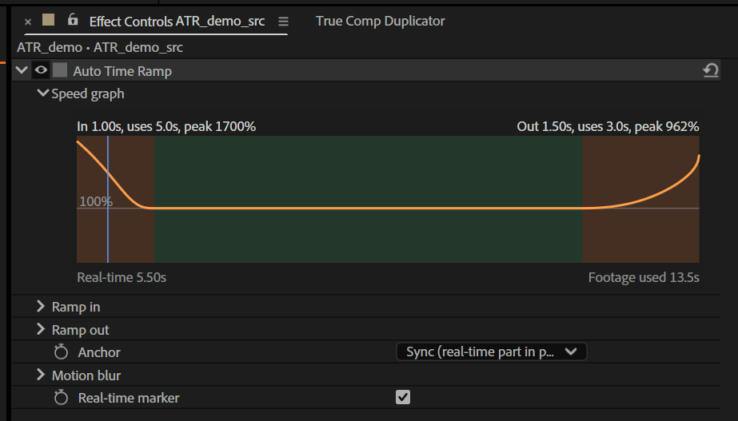
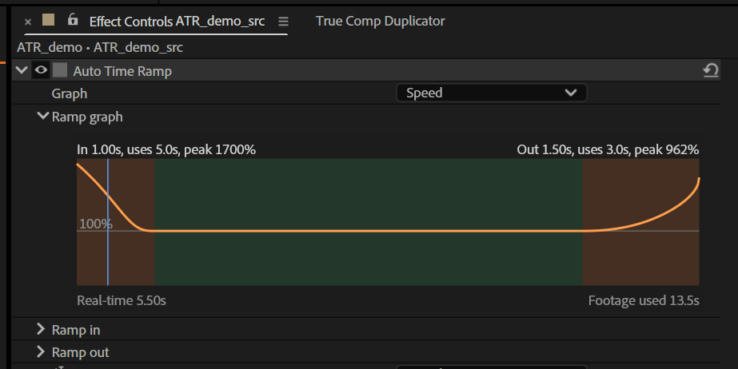
Add Speed/Time graph switch and text-free real-time marker (v0.5)
- New "Graph" popup at the top of the effect: Speed (log speed curve) or
  Time (source time over layer time, as a Time Remap graph would show,
  with a dashed 1:1 reference and the source range labelled); graph param
  renamed "Ramp graph"
- Real-time marker has no visible text; it is identified by a hidden
  cue-point parameter AutoTimeRamp=real-time. v0.3/v0.4 markers carrying
  the old comment are recognised and rewritten without it
- Marker test checks for no text and migration of an old text marker

diff --git a/tests/ae/marker_test.jsx b/tests/ae/marker_test.jsx
@@ -14,7 +14,7 @@
     var stage = stageFile.readln();
     stageFile.close();
 
-    var COMMENT = "Real-time (Auto Time Ramp)";
+    var LEGACY_COMMENT = "Real-time (Auto Time Ramp)"; // v0.3/v0.4 markers; must be migrated
     var FPS = 25;
     var lines = [];
     function check(name, ok, details) { lines.push((ok ? "PASS," : "FAIL,") + name + "," + details); }
@@ -32,14 +32,20 @@
         return L.property("ADBE Effect Parade").property("DFLW AutoTimeRamp")
             .property("DFLW AutoTimeRamp-" + id.substr(id.length - 4));
     }
-    // Our marker: [start (layer time), duration] or null.
+    // Our marker (hidden param AutoTimeRamp=real-time): [start (layer time), duration, comment] or null.
     function ourMarker(L) {
         var m = L.property("ADBE Marker");
         for (var k = 1; k <= m.numKeys; k++) {
             var v = m.keyValue(k);
-            if (v.comment === COMMENT) return [m.keyTime(k) - L.startTime, v.duration];
+            var prm = v.getParameters();
+            if (prm && prm["AutoTimeRamp"] === "real-time") return [m.keyTime(k) - L.startTime, v.duration, v.comment];
         }
         return null;
+    }
+    function countLegacy(L) {
+        var m = L.property("ADBE Marker"), c = 0;
+        for (var k = 1; k <= m.numKeys; k++) if (m.keyValue(k).comment === LEGACY_COMMENT) c++;
+        return c;
     }
     function expect(name, L, inDur, outDur) {
         var inLayer = L.inPoint - L.startTime, outLayer = L.outPoint - L.startTime;
@@ -60,13 +66,20 @@
             L.startTime = -10;
             L.inPoint = 0;
             L.outPoint = 8;
+            // A v0.4-style marker (visible comment, no hidden param) at a wrong spot: must be migrated.
+            var legacy = new MarkerValue(LEGACY_COMMENT);
+            legacy.duration = 2;
+            L.property("ADBE Marker").setValueAtTime(L.startTime + 13, legacy);
             L.Effects.addProperty("DFLW AutoTimeRamp");
             app.endUndoGroup();
             main.openInViewer(); // the idle hook watches the active comp
             check("setup", true, "comp created");
         } else if (stage === "check1") {
             var L1 = findTest().layer(1);
-            expect("marker_on_apply", L1, 1, 1);              // created by the idle hook after apply
+            expect("marker_on_apply", L1, 1, 1);              // migrated by the idle hook after apply
+            var om = ourMarker(L1);
+            check("marker_has_no_text", om !== null && om[2] === "", om ? "comment='" + om[2] + "'" : "none");
+            check("legacy_marker_migrated", countLegacy(L1) === 0, countLegacy(L1) + " legacy markers left");
             P(L1, 2).setValue(2);                             // ramp in duration -> 2 s (param path)
             expect("marker_after_param_change", L1, 2, 1);
             L1.outPoint = 7;                                  // trim: idle path, checked next stage

diff --git a/src/effect/Marker.cpp b/src/effect/Marker.cpp
@@ -5,6 +5,7 @@
 #include <cstring>
 #include <cwchar>
 #include <map>
+#include <string>
 
 #ifdef AE_OS_WIN
     #include <Windows.h> // GetTickCount64
@@ -25,6 +26,7 @@ A_Time ToATime(double seconds)
 struct FoundMarker
 {
     bool exists = false;
+    bool legacy = false; // still carries the old visible comment: rewrite it
     AEGP_KeyframeIndex index = 0;
     double start = 0.0;
     double duration = 0.0;
@@ -51,25 +53,46 @@ A_Err FindOurMarker(AEGP_StreamRefH streamH, FoundMarker& found, double probeTim
         AEFX_CLR_STRUCT(val);
         if (kf->AEGP_GetNewKeyframeValue(g_pluginId, streamH, i, &val) != A_Err_NONE)
             continue;
-        bool ours = false;
-        AEGP_MemHandle memH = nullptr;
-        if (val.val.markerP &&
-            mk->AEGP_GetMarkerString(g_pluginId, val.val.markerP, AEGP_MarkerString_COMMENT, &memH) == A_Err_NONE &&
-            memH)
-        {
+        // UTF-16 string out of an AEGP mem handle (freed here).
+        auto take = [&](AEGP_MemHandle h) {
+            std::wstring out;
+            if (!h)
+                return out;
             void* p = nullptr;
-            if (mem->AEGP_LockMemHandle(memH, &p) == A_Err_NONE && p)
+            if (mem->AEGP_LockMemHandle(h, &p) == A_Err_NONE && p)
             {
-                ours = std::wcscmp(reinterpret_cast<const wchar_t*>(p), ATR_MARKER_COMMENT) == 0;
-                mem->AEGP_UnlockMemHandle(memH);
+                out = reinterpret_cast<const wchar_t*>(p);
+                mem->AEGP_UnlockMemHandle(h);
             }
-            mem->AEGP_FreeMemHandle(memH);
+            mem->AEGP_FreeMemHandle(h);
+            return out;
+        };
+        bool ours = false, legacy = false;
+        if (val.val.markerP)
+        {
+            AEGP_MemHandle commentH = nullptr;
+            if (mk->AEGP_GetMarkerString(g_pluginId, val.val.markerP, AEGP_MarkerString_COMMENT, &commentH) ==
+                A_Err_NONE)
+                legacy = take(commentH) == ATR_MARKER_LEGACY_COMMENT;
+            A_long params = 0;
+            mk->AEGP_CountCuePointParams(val.val.markerP, &params);
+            for (A_long k = 0; k < params && !ours; ++k)
+            {
+                AEGP_MemHandle keyH = nullptr, valueH = nullptr;
+                if (mk->AEGP_GetIndCuePointParam(g_pluginId, val.val.markerP, k, &keyH, &valueH) == A_Err_NONE)
+                {
+                    const std::wstring key = take(keyH), value = take(valueH);
+                    ours = key == ATR_MARKER_KEY && value == ATR_MARKER_VALUE;
+                }
+            }
+            ours = ours || legacy;
         }
         if (ours && !found.exists)
         {
             A_Time d = {0, 1};
             mk->AEGP_GetMarkerDuration(val.val.markerP, &d);
             found.exists = true;
+            found.legacy = legacy;
             found.index = i;
             found.start = ToSeconds(t);
             found.duration = ToSeconds(d);
@@ -168,7 +191,7 @@ void ProcessLayer(AEGP_LayerH layerH, AEGP_EffectRefH effH, A_long compId, doubl
         FoundMarker found;
         FindOurMarker(streamH, found);
         streams->AEGP_DisposeStream(streamH);
-        if (found.exists || !zone.want)
+        if ((found.exists && !found.legacy) || !zone.want)
             return;
     }
     else
@@ -286,7 +309,7 @@ bool SyncMarker(AEGP_LayerH layerH, const MarkerZone& zone, double frameSeconds,
         FindOurMarker(streamH, found, zone.start, &otherAtStart);
 
         const double tol = std::max(1.0e-4, 0.25 * frameSeconds);
-        const bool matches = found.exists && zone.want && std::fabs(found.start - zone.start) < tol &&
+        const bool matches = found.exists && !found.legacy && zone.want && std::fabs(found.start - zone.start) < tol &&
                              std::fabs(found.duration - zone.duration) < tol;
         const bool needed = zone.want ? !matches : found.exists;
 
@@ -305,11 +328,16 @@ bool SyncMarker(AEGP_LayerH layerH, const MarkerZone& zone, double frameSeconds,
                     AEGP_MarkerValP markerP = nullptr;
                     if (mk->AEGP_NewMarker(&markerP) == A_Err_NONE && markerP)
                     {
-                        const wchar_t* comment = ATR_MARKER_COMMENT;
-                        mk->AEGP_SetMarkerString(markerP,
-                                                 AEGP_MarkerString_COMMENT,
-                                                 reinterpret_cast<const A_u_short*>(comment),
-                                                 static_cast<A_long>(std::wcslen(comment)));
+                        // No visible text: identify the marker by a hidden parameter instead.
+                        const wchar_t* key = ATR_MARKER_KEY;
+                        const wchar_t* value = ATR_MARKER_VALUE;
+                        if (mk->AEGP_InsertCuePointParam(markerP, 0) == A_Err_NONE)
+                            mk->AEGP_SetIndCuePointParam(markerP,
+                                                         0,
+                                                         reinterpret_cast<const A_u_short*>(key),
+                                                         static_cast<A_long>(std::wcslen(key)),
+                                                         reinterpret_cast<const A_u_short*>(value),
+                                                         static_cast<A_long>(std::wcslen(value)));
                         mk->AEGP_SetMarkerDuration(markerP, &durT);
                         mk->AEGP_SetMarkerLabel(markerP, ATR_MARKER_LABEL);
                         AEGP_StreamValue2 v;

diff --git a/src/effect/Graph.cpp b/src/effect/Graph.cpp
@@ -187,34 +187,62 @@ PF_Err DrawSpeedGraph(PF_InData* in_data, PF_OutData* out_data, PF_ParamDef* par
         const float py = Y0 + pad + line, ph = H - 2 * pad - 2 * line;
         auto xOf = [&](double t) { return px + float((t - solved.inPoint) / L) * pw; };
 
-        // Log speed axis: 10% .. a bit above the fastest point.
-        const double vTop = std::max({2.0, solved.rampIn.peak, solved.rampOut.peak}) * 1.25;
-        const double lgMin = std::log10(0.1), lgMax = std::log10(vTop);
-        auto yOf = [&](double v) {
-            const double lg = std::log10(std::max(v, 0.1));
-            return py + ph - float((lg - lgMin) / (lgMax - lgMin)) * ph;
-        };
-
         // Zones.
         const double rtA = solved.RealTimeStart(), rtB = solved.RealTimeEnd();
         c.FillRect(xOf(solved.inPoint), py, xOf(rtA) - xOf(solved.inPoint), ph, rampFill);
         c.FillRect(xOf(rtA), py, xOf(rtB) - xOf(rtA), ph, rtFill);
         c.FillRect(xOf(rtB), py, xOf(solved.outPoint) - xOf(rtB), ph, rampFill);
 
-        // 100% reference line and its label.
-        c.Line(px, yOf(1.0), px + pw, yOf(1.0), grid, 1.0f);
-        c.Text(L"100%", px + 2.0f, yOf(1.0) - 2.0f, dim, kDRAWBOT_TextAlignment_Left);
-
-        // Speed curve, one point per pixel.
+        // One sample per pixel column.
         const int n = std::max(2, std::min(2048, int(pw)));
         float xs[2048], ys[2048];
+        double srcAt[2048], speedAt[2048];
+        double srcMin = 1e300, srcMax = -1e300;
         for (int i = 0; i < n; ++i)
         {
             const double t = solved.inPoint + L * i / (n - 1);
+            const atr::Sample smp = atr::Evaluate(solved, t);
             xs[i] = xOf(t);
-            ys[i] = yOf(atr::Evaluate(solved, t).speed);
+            srcAt[i] = smp.source;
+            speedAt[i] = smp.speed;
+            srcMin = std::min(srcMin, smp.source);
+            srcMax = std::max(srcMax, smp.source);
         }
-        c.Polyline(xs, ys, n, curve, 2.0f);
+
+        const bool timeMode = params[ATR_GRAPH_MODE] && params[ATR_GRAPH_MODE]->u.pd.value == ATR_GRAPH_TIME;
+        if (timeMode)
+        {
+            // Time graph: source time shown at each layer time (what a Time Remap graph would show).
+            // Dashed-looking grey diagonal = untouched 1:1 playback for comparison.
+            const double lo = std::min(srcMin, solved.inPoint), hi = std::max(srcMax, solved.outPoint);
+            const double span = std::max(1e-6, hi - lo);
+            auto yOfS = [&](double s) { return py + ph - float((s - lo) / span) * ph; };
+            for (int k = 0; k < 24; k += 2) // dashed 1:1 reference
+            {
+                const double t0 = solved.inPoint + L * k / 24.0, t1 = solved.inPoint + L * (k + 1) / 24.0;
+                c.Line(xOf(t0), yOfS(t0 + solved.shift), xOf(t1), yOfS(t1 + solved.shift), grid, 1.0f);
+            }
+            for (int i = 0; i < n; ++i)
+                ys[i] = yOfS(srcAt[i]);
+            c.Polyline(xs, ys, n, curve, 2.0f);
+            c.Text(Fmt(L"%.1fs", hi), px + 2.0f, py + c.FontSize(), dim, kDRAWBOT_TextAlignment_Left);
+            c.Text(Fmt(L"%.1fs", lo), px + 2.0f, py + ph - 3.0f, dim, kDRAWBOT_TextAlignment_Left);
+        }
+        else
+        {
+            // Speed graph on a log axis: 10% .. a bit above the fastest point.
+            const double vTop = std::max({2.0, solved.rampIn.peak, solved.rampOut.peak}) * 1.25;
+            const double lgMin = std::log10(0.1), lgMax = std::log10(vTop);
+            auto yOf = [&](double v) {
+                const double lg = std::log10(std::max(v, 0.1));
+                return py + ph - float((lg - lgMin) / (lgMax - lgMin)) * ph;
+            };
+            c.Line(px, yOf(1.0), px + pw, yOf(1.0), grid, 1.0f);
+            c.Text(L"100%", px + 2.0f, yOf(1.0) - 2.0f, dim, kDRAWBOT_TextAlignment_Left);
+            for (int i = 0; i < n; ++i)
+                ys[i] = yOf(speedAt[i]);
+            c.Polyline(xs, ys, n, curve, 2.0f);
+        }
 
         // Playhead (current time is in layer time for the effect).
         const double now = double(in_data->current_time) / double(in_data->time_scale);

diff --git a/src/effect/AutoTimeRamp.cpp b/src/effect/AutoTimeRamp.cpp
@@ -170,13 +170,18 @@ PF_Err ParamsSetup(PF_InData* in_data, PF_OutData* out_data, PF_ParamDef*[], PF_
     PF_ParamDef def;
     const A_long sup = PF_ParamFlag_SUPERVISE; // so USER_CHANGED_PARAM fires (marker + graph refresh)
 
-    // Speed graph: a colour param whose Effect Controls UI is drawn by us. Its value is unused.
+    // Which curve the graph shows: speed over time, or source time over time (time-remap view).
+    AEFX_CLR_STRUCT(def);
+    def.flags = sup | PF_ParamFlag_CANNOT_TIME_VARY;
+    PF_ADD_POPUP("Graph", ATR_GRAPH_MODE_COUNT, ATR_GRAPH_SPEED, ATR_GRAPH_MODE_CHOICES, DISK_GRAPH_MODE);
+
+    // Graph: a colour param whose Effect Controls UI is drawn by us. Its value is unused.
     AEFX_CLR_STRUCT(def);
     def.flags = PF_ParamFlag_CANNOT_TIME_VARY;
     def.ui_flags = PF_PUI_CONTROL | PF_PUI_DONT_ERASE_CONTROL;
     def.ui_width = ATR_GRAPH_WIDTH;
     def.ui_height = ATR_GRAPH_HEIGHT;
-    PF_ADD_COLOR("Speed graph", 0, 0, 0, DISK_GRAPH);
+    PF_ADD_COLOR("Ramp graph", 0, 0, 0, DISK_GRAPH);
 
     AEFX_CLR_STRUCT(def);
     PF_ADD_TOPIC("Ramp in", DISK_IN_TOPIC);

diff --git a/src/effect/AutoTimeRamp.h b/src/effect/AutoTimeRamp.h
@@ -24,7 +24,7 @@
 #define ATR_DESCRIPTION "Keyframe-free speed ramps at the layer in/out points."
 
 #define MAJOR_VERSION 0
-#define MINOR_VERSION 4
+#define MINOR_VERSION 5
 #define BUG_VERSION 0
 #define STAGE_VERSION PF_Stage_DEVELOP
 #define BUILD_VERSION 1
@@ -46,6 +46,7 @@
 enum
 {
     ATR_INPUT = 0,
+    ATR_GRAPH_MODE,
     ATR_GRAPH,
     ATR_IN_TOPIC,
     ATR_IN_DURATION,
@@ -139,6 +140,7 @@ enum
     DISK_OUT_XF_TOPIC_END = 41,
     DISK_OUT_DIRECTION = 42,
     DISK_EDGES = 43,
+    DISK_GRAPH_MODE = 44,
 };
 
 // Popup strings: order must match atr::Ease / atr::Anchor (popup values are 1-based).
@@ -157,6 +159,14 @@ enum
     ATR_EDGE_MIRROR = 1,
     ATR_EDGE_TRANSPARENT = 2,
     ATR_EDGE_REPEAT = 3
+};
+
+#define ATR_GRAPH_MODE_CHOICES "Speed|Time"
+#define ATR_GRAPH_MODE_COUNT 2
+enum
+{
+    ATR_GRAPH_SPEED = 1,
+    ATR_GRAPH_TIME = 2
 };
 
 #define ATR_GRAPH_HEIGHT 150

diff --git a/src/effect/Marker.h b/src/effect/Marker.h
@@ -9,8 +9,12 @@
 
 #include "Settings.h"
 
-// Comment that identifies our marker. Other markers on the layer are never touched.
-#define ATR_MARKER_COMMENT L"Real-time (Auto Time Ramp)"
+// Our marker carries no visible text; it is identified by a hidden marker parameter
+// (cue point param) ATR_MARKER_KEY = ATR_MARKER_VALUE. Other markers are never touched.
+// v0.3/v0.4 markers were identified by this comment; they are recognised and rewritten without it.
+#define ATR_MARKER_KEY L"AutoTimeRamp"
+#define ATR_MARKER_VALUE L"real-time"
+#define ATR_MARKER_LEGACY_COMMENT L"Real-time (Auto Time Ramp)"
 #define ATR_MARKER_LABEL 9 // AE label colour index: Green
 
 struct MarkerZone

diff --git a/README.md b/README.md
@@ -4,9 +4,9 @@ After Effects effect (native C++, AE SDK) that speed-ramps a layer into and out 
 in/out points. No Time Remap, no keyframes: everything is derived from the layer's trimmed length.
 Design: [docs/DESIGN.md](docs/DESIGN.md).
 
-Status: **v0.4**: ramps, ease presets incl. Custom bezier, linked ramp out, anchors, speed-based
-motion blur, ramp-linked transform (scale/rotation/position/opacity) with mirror edges, a speed
-graph in Effect Controls, and a real-time marker on the layer.
+Status: **v0.5**: ramps, ease presets incl. Custom bezier, linked ramp out, anchors, speed-based
+motion blur, ramp-linked transform (scale/rotation/position/opacity) with mirror edges, a Speed/Time
+graph in Effect Controls, and a text-free real-time marker on the layer.
 
 ## Layout
 
@@ -49,9 +49,14 @@ The effect appears under **Effect > Time > Auto Time Ramp**.
 
 ## Effect controls
 
-![Speed graph in Effect Controls](docs/speed-graph.jpg)
+| Speed | Time |
+|---|---|
+| ![Speed graph](docs/speed-graph.jpg) | ![Time graph](docs/time-graph.jpg) |
 
-- **Speed graph**: speed over the layer's length on a log scale, with the ramp zones (orange),
+- **Graph**: switches the graph between **Speed** and **Time**.
+  - *Time* shows the source time at each moment of the layer (the curve a Time Remap graph would show),
+    with a dashed 1:1 line for untouched playback and the source time range labelled.
+  - *Speed* shows speed over the layer's length on a log scale, with the ramp zones (orange),
   real-time zone (green), 100% line and playhead. The header shows each ramp's duration, footage
   used and peak speed. The footer shows the real-time length and total footage used, or a red warning
   when a ramp runs off the clip or starts from a freeze.
@@ -90,8 +95,9 @@ The effect appears under **Effect > Time > Auto Time Ramp**.
   speed at 180°) the shutter covers less than one source frame, so a single sample is used and the
   image is untouched.
 
-- **Real-time marker** (on by default): a green duration marker on the layer, commented
-  "Real-time (Auto Time Ramp)", spanning the real-time zone. It follows param changes immediately (same
+- **Real-time marker** (on by default): a green duration marker on the layer, with no text, spanning
+  the real-time zone. It is recognised by a hidden marker parameter (`AutoTimeRamp=real-time`);
+  markers from v0.3/v0.4, which carried the comment "Real-time (Auto Time Ramp)", are rewritten without it. It follows param changes immediately (same
   undo step) and trims within about ¼ s (its own undo step, "Auto Time Ramp marker"). Undoing that step
   leaves the marker where it was; the next trim or param change syncs it again. Other markers are never
   touched. The marker is display only: dragging it doesn't change the ramps.
@@ -124,7 +130,8 @@ against `RampMath`. It covers sync/head/tail anchors, in/out trims, Settle/Circ/
 source clamping, Custom bezier, linked ramp out, motion blur (shutter angle and sample cap), and
 32/16/8 bpc. Ramp-transform cases view a horizontal gradient through scale/rotation/position/opacity
 with each edge mode and check every sampled point against the inverse transform. [tests/ae/marker_test.jsx](tests/ae/marker_test.jsx) then checks the real-time marker in
-stages: created on apply, updated on param change, followed after a trim, removed when switched off. The green channel is a
+stages: created on apply (with no text, upgrading an old text marker), updated on param change, followed
+after a trim, removed when switched off. The green channel is a
 sine of time, so averaging shows up in it: blur cases must match the predicted shutter average and
 visibly differ from an unblurred render. All test items are removed afterwards; the project is not saved.
 

diff --git a/docs/DESIGN.md b/docs/DESIGN.md
@@ -65,7 +65,8 @@ In and out have separate presets with a link checkbox.
 - Effect Controls custom UI (v0.3): speed graph with zones, peak speeds, footage used, warnings.
   Drawn with Drawbot on a colour param with `PF_PUI_CONTROL` (its value is unused).
 - Real-time marker (v0.3, display only): one layer duration marker spanning the real-time zone,
-  identified by its comment. Synced in `USER_CHANGED_PARAM` (inside the param change's undo step) and
+  identified by a hidden cue-point parameter `AutoTimeRamp=real-time` (no visible text, since v0.5; older
+  markers identified by the comment "Real-time (Auto Time Ramp)" are migrated). Synced in `USER_CHANGED_PARAM` (inside the param change's undo step) and
   by an idle hook that scans the active comp's layers with the effect and re-syncs after trims (its own
   undo step). The hook only acts when a layer's timing or settings changed since it last looked, so an
   undone marker update isn't re-applied in a loop. On first sight (project open) it only creates a
